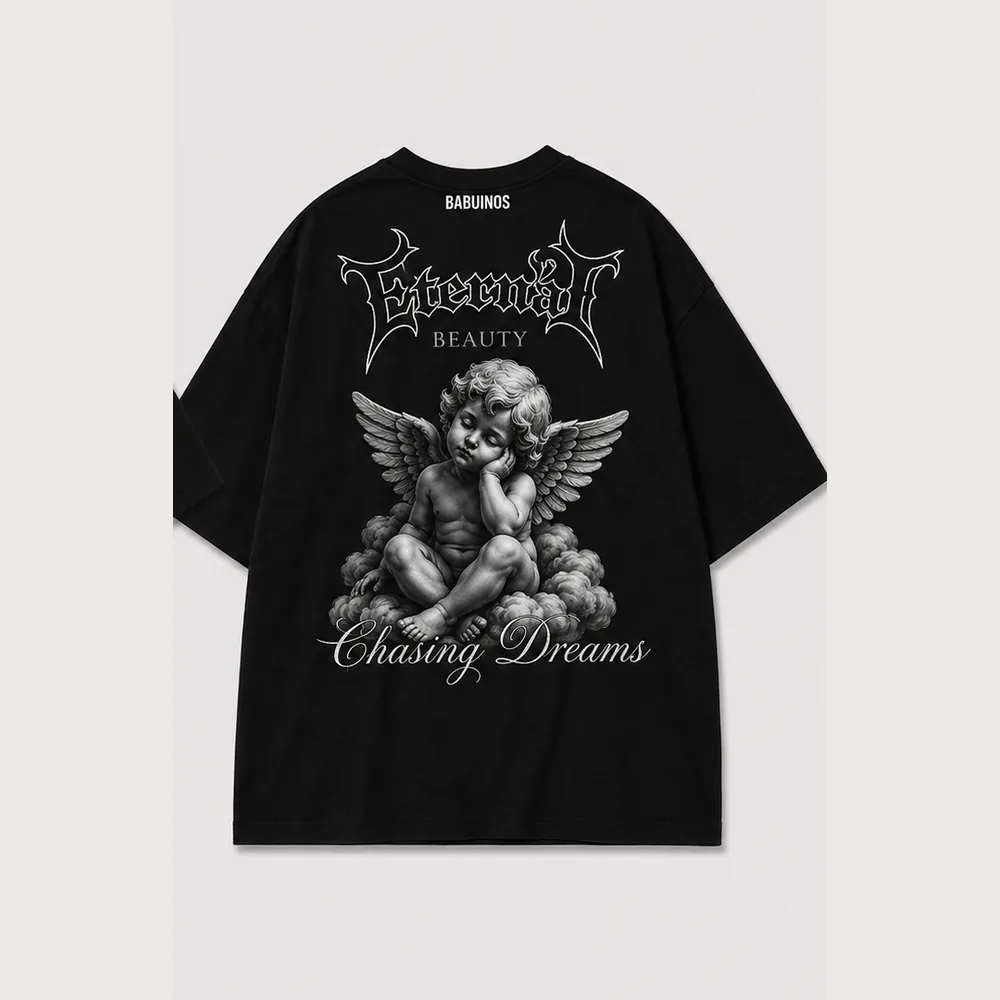
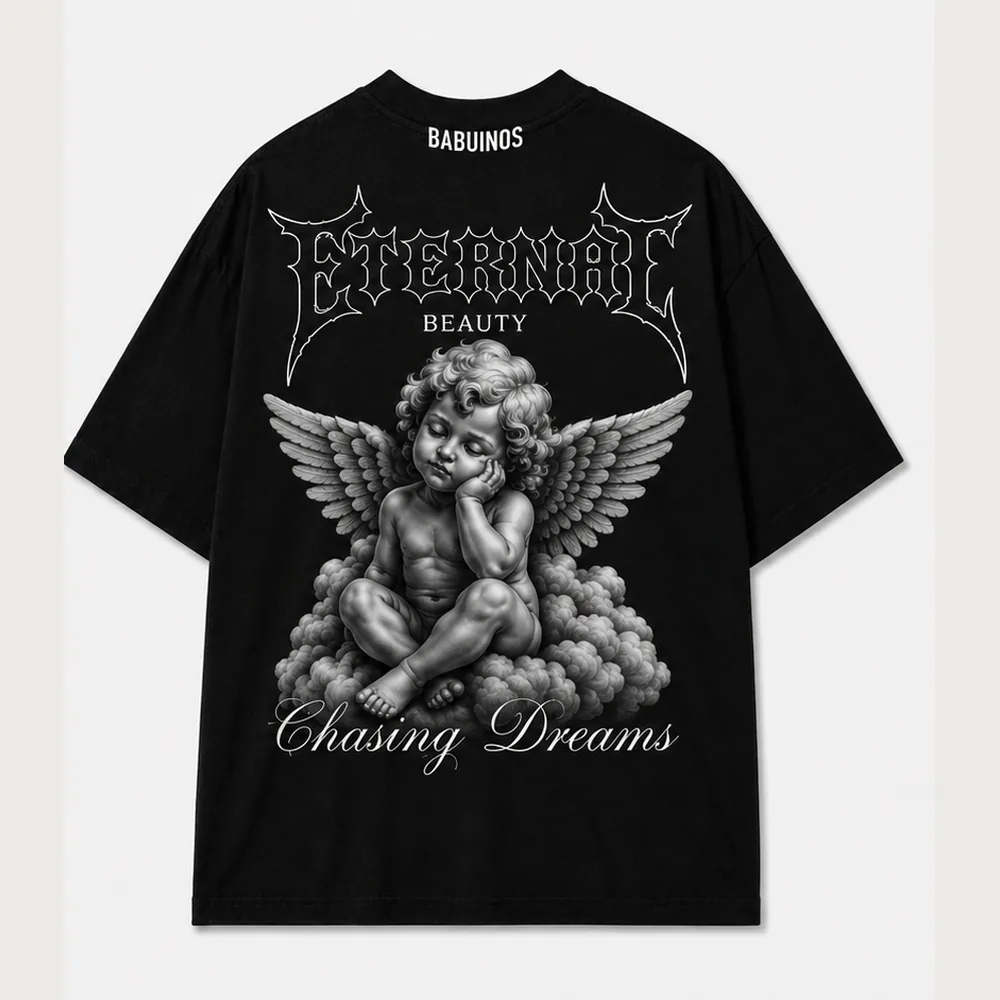
fix(eternal-beauty): frente nuevo "Our Bond is Forever"
La lamina 13 cambio: el frente paso de 'Do You Want Something' a
'Our Bond is Forever' entre tres rosas (la espalda con el querubin sigue igual).
Rehechas eternal-beauty-frente.webp y -espalda.webp, y corregido el copy que
nombraba el print viejo (products.ts y ROADMAP).

De paso, el script de ingesta estaba inservible desde hace dias:
- el mapa de Fundadores se quedo en la pieza 10, asi que 11, 12 y 13 se habian
  procesado a mano;
- se caia con `2 H.png` / `2 M.png` (los dos cortes de Guns & Roses) al intentar
  leer el numero del nombre;
- buscaba la carpeta "BASICAS", que hoy se llama "Basicas Babuinos".
Ahora: mapa completo hasta 13, las laminas por corte salen a <slug>-h / <slug>-m
como espera imagesByGender, la carpeta se halla por prefijo, y hay
`--solo <slug|numero>` + `--parte plana|grilla|todo` para rehacer UNA pieza sin
pisar los re-cortes manuales de las otras (las espaldas de free-palestine).

OJO: las fotos de MODELO de esta pieza (lamina 13.5) siguen mostrando el frente
viejo. Hace falta una lamina de modelos nueva para que la ficha no muestre dos
frentes distintos.

Changed region(s): [[0.062, 0.062, 0.93, 0.93], [0.279, 0.341, 0.31, 0.372]]

diff --git a/src/lib/products.ts b/src/lib/products.ts
@@ -551,9 +551,9 @@ const FUNDADORES: Product[] = [
     genero: "unisex",
     edition: "midnight",
     color: "negro",
-    desc: "Negra con un querubín alado a toda la espalda bajo el lettering Eternal Beauty. 'You Want Something' al frente.",
+    desc: "Negra con un querubín alado a toda la espalda bajo el lettering Eternal Beauty. 'Our Bond is Forever' al frente.",
     descLong:
-      "Negro absoluto con una ilustración de querubín alado sobre las nubes a toda la espalda, bajo el lettering gótico Eternal Beauty y el remate Chasing Dreams. Al frente, 'You Want Something' en script fino con rosas; babuino troquelado en el ruedo y BABUINOS en la nuca.",
+      "Negro absoluto con una ilustración de querubín alado sobre las nubes a toda la espalda, bajo el lettering gótico Eternal Beauty y el remate Chasing Dreams. Al frente, 'Our Bond is Forever' en script fino entre tres rosas; babuino troquelado en el ruedo y BABUINOS en la nuca.",
     fit: "Oversize",
     composicion: ALGODON,
     image: "/brand/products/eternal-beauty-frente.webp",

diff --git a/scripts/ingest_camisas.py b/scripts/ingest_camisas.py
@@ -17,10 +17,17 @@ una ingesta de UNA vez, el lado va en la tabla ESPALDA_IZQ, revisado a ojo sobre
 las láminas.
 
     py scripts/ingest_camisas.py [--dry-run]
+
+Cuando Juan cambia UN diseño, rehacer solo esa pieza (correr todo pisaría los
+re-cortes que se hicieron a mano en otras láminas):
+
+    py scripts/ingest_camisas.py --solo eternal-beauty --parte plana
+    py scripts/ingest_camisas.py --solo 13 --dry-run
 """
 
 import glob
 import os
+import re
 import sys
 
 from PIL import Image
@@ -59,6 +66,9 @@ FUNDADORES = {
     8: "offline-pleasure",
     9: "asian-tengu-mask",
     10: "california-rasta-kid",
+    11: "guardian-navy",
+    12: "green-afro-tiki",
+    13: "eternal-beauty",
 }
 
 GENEROS = ["hombre", "mujer"]
@@ -111,12 +121,25 @@ def normalizar(tile, w, h, dest):
 
 
 def clasificar(carpeta):
-    """{numero: {"grilla": ruta, "plana": ruta}} por proporción, no por nombre."""
+    """
+    {numero: {"grilla": ruta, "plana": ruta, "plana_h": ..., "plana_m": ...}}
+
+    El tipo sale de la PROPORCIÓN, no del nombre. Del nombre solo se saca el
+    número y, si lo trae, el corte: `2 H.png` / `2 M.png` son los dos cortes de
+    Guns & Roses (oversize hombre / crop mujer) y salen a `<slug>-h-*` y
+    `<slug>-m-*`, que es lo que espera `imagesByGender` en products.ts.
+    """
     out = {}
     for f in glob.glob(os.path.join(carpeta, "*.png")):
-        num = int(os.path.basename(f).split(".")[0])
+        nombre = os.path.basename(f)
+        m = re.match(r"^(\d+)(?:\.\d+)?(?:\s+([HM]))?\.png$", nombre, re.I)
+        if not m:
+            print(f"  ~ me salto «{nombre}»: no sigue el patrón N.png / N.5.png / N H.png")
+            continue
+        num, corte = int(m.group(1)), (m.group(2) or "").lower()
         with Image.open(f) as im:
-            tipo = "plana" if im.width / im.height > 1.5 else "grilla"
+            plana = im.width / im.height > 1.5
+        tipo = ("plana" + (f"_{corte}" if corte else "")) if plana else "grilla"
         out.setdefault(num, {})[tipo] = f
     return out
 
@@ -147,7 +170,8 @@ def cortar_grilla(src, slug, dry):
         return f"6 fotos de modelo, {min(pesos)}-{max(pesos)} KB{aviso}"
 
 
-def cortar_plana(src, slug, dry):
+def cortar_plana(src, slug, dry, base=None):
+    """`slug` nombra los archivos; `base` decide el lado (para los cortes -h/-m)."""
     if not dry:
         os.makedirs(OUT_PRODUCTS, exist_ok=True)
     with Image.open(src) as im:
@@ -159,7 +183,7 @@ def cortar_plana(src, slug, dry):
             aviso += " [mitades iguales]"
         izq = im.crop((cx[0][0], 0, cx[0][1], im.height))
         der = im.crop((cx[1][0], 0, cx[1][1], im.height))
-        lado = "izq" if slug in ESPALDA_IZQ else "der"
+        lado = "izq" if (base or slug) in ESPALDA_IZQ else "der"
         espalda, frente = (izq, der) if lado == "izq" else (der, izq)
         if dry:
             return f"espalda={lado}{aviso}"
@@ -168,31 +192,85 @@ def cortar_plana(src, slug, dry):
         return f"prenda sola: espalda {a} KB ({lado}) + frente {b} KB{aviso}"
 
 
+def arg(nombre, defecto=None):
+    """Lee `--nombre valor` de la línea de comandos."""
+    if nombre in sys.argv:
+        i = sys.argv.index(nombre)
+        if i + 1 < len(sys.argv):
+            return sys.argv[i + 1]
+    return defecto
+
+
 def main():
     dry = "--dry-run" in sys.argv
-    print(f"\n  BABUINOS · ingesta de camisas{'  (simulación)' if dry else ''}\n")
+    # Rehacer UNA pieza es lo normal cuando Juan cambia un diseño: correr todo
+    # volvería a generar las 18 y pisaría los re-cortes hechos a mano (p. ej. las
+    # espaldas de free-palestine).
+    solo = arg("--solo")
+    parte = arg("--parte", "todo")
+    if parte not in ("todo", "plana", "grilla"):
+        print("  --parte solo acepta: todo | plana | grilla")
+        return
+    print(f"\n  BABUINOS · ingesta de camisas{'  (simulación)' if dry else ''}")
+    if solo:
+        print(f"  solo la pieza «{solo}» · parte: {parte}")
+    print()
 
-    for carpeta, mapa, etiqueta in [
-        ("BASICAS", BASICAS, "Básicas"),
-        ("Coleccion Fundadores", FUNDADORES, "Fundadores"),
+    hechas = 0
+    for prefijo, mapa, etiqueta in [
+        ("basicas", BASICAS, "Básicas"),
+        ("coleccion fundadores", FUNDADORES, "Fundadores"),
     ]:
-        ruta = os.path.join(FUENTE, carpeta)
-        if not os.path.isdir(ruta):
-            print(f"  falta la carpeta {ruta}")
+        # Por prefijo y sin tildes: la carpeta de básicas se llamó "BASICAS" y
+        # hoy es "Basicas Babuinos".
+        ruta = next(
+            (
+                d
+                for d in sorted(glob.glob(os.path.join(FUENTE, "*")))
+                if os.path.isdir(d) and os.path.basename(d).lower().startswith(prefijo)
+            ),
+            None,
+        )
+        if not ruta:
+            print(f"  no encontré la carpeta de {etiqueta} en {FUENTE}")
             continue
         encontrados = clasificar(ruta)
-        print(f"  ── {etiqueta} ──")
+        cabecera = False
         for num in sorted(mapa):
             slug = mapa[num]
+            if solo and solo not in (slug, str(num)):
+                continue
+            if not cabecera:
+                print(f"  ── {etiqueta} ──")
+                cabecera = True
             par = encontrados.get(num, {})
-            if "grilla" not in par or "plana" not in par:
+            # Las piezas de dos cortes traen `N H`/`N M` en vez de `N`.
+            planas = [(k, v) for k, v in sorted(par.items()) if k.startswith("plana")]
+            falta = []
+            if "grilla" not in par:
+                falta.append("grilla")
+            if not planas:
+                falta.append("plana")
+            # Con --parte solo hace falta la lámina de esa parte.
+            if (parte == "todo" and falta) or (parte != "todo" and parte in falta):
                 print(f"  ! {num:2d} {slug:24s} incompleto: {sorted(par)}")
                 continue
-            g = cortar_grilla(par["grilla"], slug, dry)
-            p = cortar_plana(par["plana"], slug, dry)
-            print(f"  + {num:2d} {slug:24s} {g}")
-            print(f"       {' ':27s}{p}")
-        print()
+            print(f"  + {num:2d} {slug:24s}", end="")
+            if parte in ("todo", "grilla"):
+                print(f" {cortar_grilla(par['grilla'], slug, dry)}")
+            else:
+                print()
+            if parte in ("todo", "plana"):
+                for tipo, ruta in planas:
+                    corte = tipo.split("_")[1] if "_" in tipo else ""
+                    destino = f"{slug}-{corte}" if corte else slug
+                    print(f"       {' ':27s}{cortar_plana(ruta, destino, dry, base=slug)}")
+            hechas += 1
+        if cabecera:
+            print()
+
+    if solo and not hechas:
+        print(f"  no encontré la pieza «{solo}». Slugs: {', '.join(sorted(set(BASICAS.values()) | set(FUNDADORES.values())))}\n")
 
 
 if __name__ == "__main__":

diff --git a/ROADMAP.md b/ROADMAP.md
@@ -108,10 +108,12 @@ Salidos de probar la tienda en el celular, no de la auditoría.
 ## ✅ Fase 3e — Eternal Beauty + música al primer gesto (hecho · 2026-08-05)
 
 - [x] **Pieza 18 — "Eternal Beauty"** (Colección Fundadores): negra con un querubín alado
-      a toda la espalda (*Eternal Beauty · Chasing Dreams*), 'You Want Something' al frente. Nombre
-      dado por Juan (del propio print). Su lámina de prenda tenía un ratio atípico (1.33), así que se
-      procesó forzando el rol prenda/grilla en vez de dejar que el auto-clasificador decidiera. El
-      diseño se actualizó el 5-ago (antes era un hada; ahora el querubín).
+      a toda la espalda (*Eternal Beauty · Chasing Dreams*). Nombre dado por Juan (del propio print).
+      Su lámina de prenda tenía un ratio atípico (1.33), así que se procesó forzando el rol
+      prenda/grilla en vez de dejar que el auto-clasificador decidiera. El diseño se actualizó el
+      5-ago (antes era un hada; ahora el querubín) y **el frente cambió el 6-ago**: pasó de
+      'Do You Want Something' a **'Our Bond is Forever'** entre tres rosas. La prenda sola ya está
+      rehecha; **las fotos de modelo (lámina 13.5) todavía muestran el frente viejo**.
 - [x] **Música al primer gesto en CUALQUIER parte, también en celular** (toque/click/scroll), a
       pedido de Juan. Se quitó la guarda de móvil del autostart. Revierte la Fase 3b en ese punto:
       baja por streaming, así que no bloquea la primera vista.
